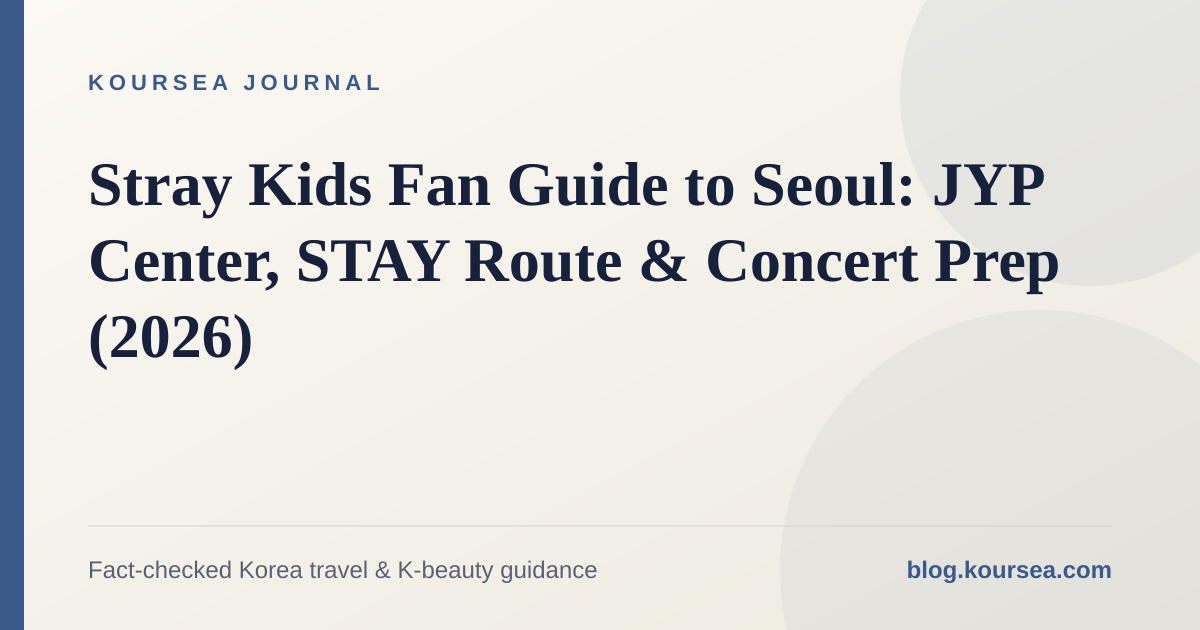
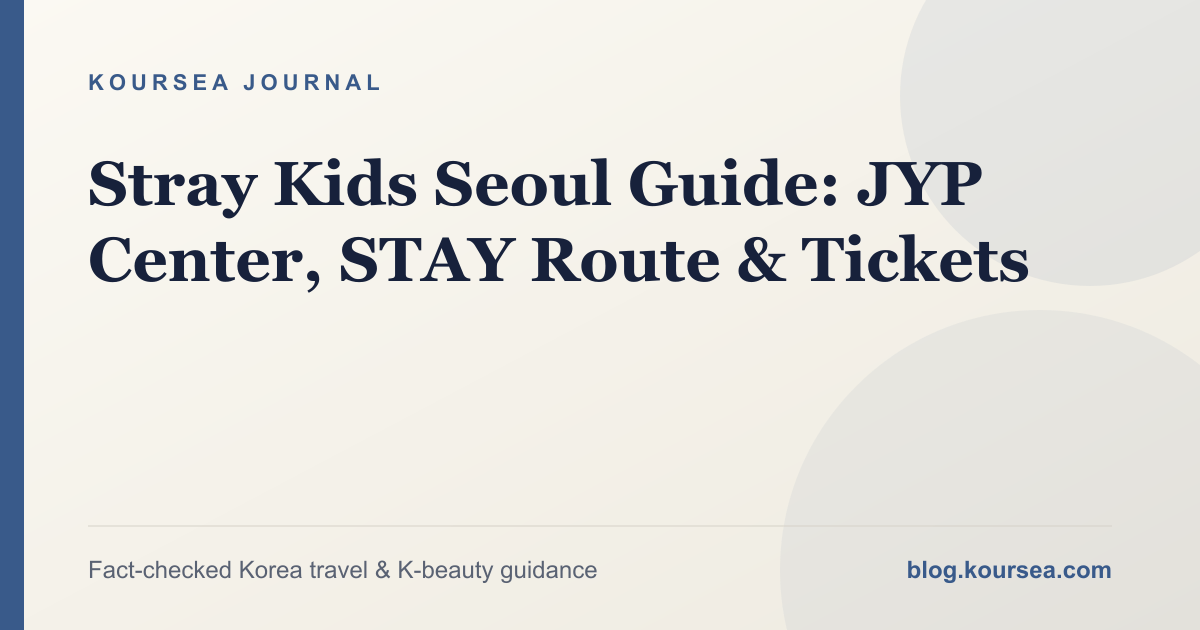
feat: route K-pop guides through fan travel hub

diff --git a/src/content/posts/kpop-concert-day-venue-transport-guide-2026.md b/src/content/posts/kpop-concert-day-venue-transport-guide-2026.md
@@ -1,8 +1,8 @@
 ---
-title: "K-Pop Concert Day Guide: KSPO, Gocheok, Inspire & Jamsil (2026)"
+title: "K-Pop Concert Day: KSPO, Gocheok, Inspire & Jamsil"
 description: "Plan transport, parking, identity checks and the post-show return from KSPO Dome, Gocheok Sky Dome, Inspire Arena and Jamsil Indoor Stadium."
 pubDate: 2026-09-05
-updatedDate: 2026-09-05
+updatedDate: 2026-09-25
 tags: ["K-pop concert Korea", "KSPO Dome transport", "Gocheok Sky Dome parking", "Inspire Arena shuttle", "Jamsil Indoor Stadium"]
 canonicalUrl: "https://blog.koursea.com/posts/kpop-concert-day-venue-transport-guide-2026/"
 author: "Koursea Editorial"
@@ -79,6 +79,25 @@ Korean ticketing and venue operations use strict purchaser-name checks to deter 
 Bag and camera policies also vary by promoter. Large bags, professional or detachable-lens cameras, long lenses, selfie sticks and recording equipment are commonly restricted, but this is not a permanent universal rule for every event at these venues. Check the current show's prohibited-items notice. Leave airport luggage at your hotel or a staffed storage point rather than testing an arena locker at the busiest time.
 
 Official lightsticks are generally the products supported by the artist's official Bluetooth synchronization system. An unofficial product may light up independently but fail to pair with the concert control system. Confirm the correct lightstick generation and pairing app through the artist or promoter's notice. For buying guidance, use Koursea's [guide to spotting fake K-pop merchandise](/posts/how-to-spot-fake-k-pop-merch-seoul-guide/) before purchasing from an unfamiliar seller.
+
+## Choose Where to Stay by the Return Trip
+
+Do not choose a hotel by measuring only the daytime trip to the venue. Open a live route planner for the expected end time, then check the **final transfer** needed to reach the hotel. A route that looks simple at 15:00 may depend on a connection that is much less forgiving after an encore.
+
+- **KSPO DOME:** compare hotels against both Lines 5 and 9, then keep the option that leaves the simplest final transfer after Olympic Park.
+- **Gocheok Sky Dome:** test the complete Line 1 return route from Guil Station. Pay attention to the direction and transfer station, not just the distance shown on a hotel listing.
+- **Inspire Arena:** let the confirmed return shuttle or pickup point determine the hotel area. A daytime airport shuttle is not proof that a post-show seat is available.
+- **Jamsil Indoor Stadium:** compare the Line 2 and Line 9 routes from Sports Complex Station and choose the one with fewer late-night dependencies.
+
+Save the result as a screenshot with the venue name and hotel address in Korean. Recheck it on the day because event operations and public-transport schedules can change.
+
+## If You Are Going Alone
+
+Solo concert travel works best when the essential decisions are made before the crowd forms. Share the venue, seat or section and expected return time with someone you trust. Keep the required ID, payment card, physical transit card and charged phone on your body rather than in a bag you may have to store.
+
+Choose a numbered gate or fixed public landmark as your meeting and pickup point, even if you do not expect to meet anyone. It gives you an unambiguous place to return to if mobile service slows or an app pickup fails. After the show, wait in a staffed, well-lit part of the venue or station complex rather than walking alone to a quiet road in search of a faster taxi.
+
+For the full set of venue guides, fan places and current Ask discussions, continue in Koursea's [K-pop fan travel hub](https://www.koursea.com/kpop.html).
 
 ## A Safer Concert-Day Timeline
 

diff --git a/src/content/posts/kspo-dome-concert-survival-guide.md b/src/content/posts/kspo-dome-concert-survival-guide.md
@@ -1,8 +1,8 @@
 ---
-title: "KSPO Dome Concert Survival Guide: Lockers, Food & Late-Night Subway Plan"
+title: "KSPO Dome Concert Guide: Lockers, Food & Late-Night Subway"
 description: "Plan a KSPO Dome concert with Olympic Park exits, realistic locker strategy, quick food options, meeting points and a safer late-night return route."
 pubDate: 2026-09-04
-updatedDate: 2026-09-04
+updatedDate: 2026-09-25
 tags: ["K-Pop", "KSPO Dome", "Concerts", "Olympic Park", "Seoul Transit"]
 canonicalUrl: "https://blog.koursea.com/posts/kspo-dome-concert-survival-guide/"
 author: "Koursea Editorial"
@@ -50,6 +50,23 @@ Check the last viable itinerary before entering the venue, including the final t
 Avoid sprinting into the first packed entrance if you have buffer. Walk steadily, follow crowd barriers and let your map recalculate from the station entrance you can actually reach. If the subway plan fails, move to a well-lit pickup area away from illegal stopping zones before requesting a taxi; surge demand and road closures can delay vehicles.
 
 Use the [2026 K-Pop concert ticketing survival guide](/posts/kpop-concert-ticketing-seoul-2026/) before purchase day, and Koursea's [transit survival guide](https://www.koursea.com/korea-transit-transport-master-pillar-guide.html) for fare-card and late-night routing basics.
+
+## A Lower-Stress Four-Hour Plan
+
+Keep the hours before the show inside Olympic Park instead of crossing Seoul for one more attraction. This reduces the risk that a delayed train, café queue or shopping stop consumes the time reserved for ticket pickup.
+
+- **T–4 hours:** arrive in the district, leave large luggage elsewhere and eat before the closest restaurants become crowded.
+- **T–3 hours:** walk the route from your station exit to the assigned gate while the complex is still easier to read.
+- **T–2 hours:** complete identity checks, ticket pickup or merchandise collection, following the order in the event notice.
+- **T–1 hour:** stop adding activities. Use the restroom, confirm the lightstick and move to the correct entry queue.
+
+Olympic Park is large enough for a quiet walk or seated break without adding another cross-city journey. Check the park operator's current access information and the promoter's temporary crowd-control map before relying on a particular path.
+
+## Going to KSPO Dome Alone
+
+Send a trusted contact your event name, seat or section and expected return time. Carry the original identification required by the organizer and keep a backup copy of your hotel address offline. Choose one numbered gate or permanent landmark as your fallback point before entering.
+
+After the show, stay with the staffed crowd route even if a map suggests a quieter shortcut. If you need a taxi, move only to a legal, well-lit pickup area and expect demand to be high. You can also open the [K-pop fan travel hub](https://www.koursea.com/kpop.html) before departure to keep the venue, ticket and Ask resources in one place.
 
 ## Concert-Day Timeline
 

diff --git a/src/content/posts/triples-fan-guide-seoul.md b/src/content/posts/triples-fan-guide-seoul.md
@@ -1,8 +1,8 @@
 ---
-title: "tripleS Fan Guide to Seoul: WAV Ticketing Prep for the ANDLESS World Tour"
+title: "tripleS Seoul Guide: WAV Ticketing & ANDLESS Tour"
 description: "A practical tripleS fan guide for Seoul: the MODHAUS agency structure, WAV fandom basics, and how to prepare for the ANDLESS World Tour's Jangchung Arena dates."
 pubDate: 2026-09-13
-updatedDate: 2026-09-13
+updatedDate: 2026-09-25
 category: "K-Pop & Concerts"
 tags: ["triples", "wav", "modhaus", "andless world tour", "kpop concert tickets"]
 canonicalUrl: "https://blog.koursea.com/posts/triples-fan-guide-seoul/"
@@ -16,7 +16,7 @@ faq:
     answer: "The guide lists October 10–11, 2026 at Jangchung Arena as the opening Seoul shows of the 2026 tripleS World Tour ANDLESS."
 ---
 
-# tripleS Fan Guide to Seoul: WAV Ticketing Prep for the ANDLESS World Tour
+# tripleS Seoul Guide: WAV Ticketing & ANDLESS Tour
 
 **MODHAUS** is the agency behind tripleS, a 24-member group, and **WAV** is the group's official fandom name. One difference from the SM Entertainment acts Koursea already covers: MODHAUS has no single, fixed public storefront to point fans toward, nothing like KWANGYA@SEOUL. So rather than force that shape, this guide sticks to what can actually be verified — how tripleS's promotion cycle works, plus how to get ready for a real, dated Seoul tour stop.
 

diff --git a/src/content/posts/nmixx-fan-guide.md b/src/content/posts/nmixx-fan-guide.md
@@ -1,8 +1,8 @@
 ---
-title: "NMIXX Fan Guide to Seoul: JYP Center, NSWER Basics & Comeback Prep (2026)"
+title: "NMIXX Seoul Guide: JYP Center, NSWER & Comeback Prep"
 description: "A practical NMIXX fan guide covering the NSWER fandom name, current JYP Center visit rules, the Heavy Serenade era, and Seoul concert/ticketing prep."
 pubDate: 2026-09-20
-updatedDate: 2026-09-20
+updatedDate: 2026-09-25
 category: "K-Pop & Concerts"
 tags: ["nmixx", "nswer", "jyp entertainment", "heavy serenade", "kpop concert tickets"]
 canonicalUrl: "https://blog.koursea.com/posts/nmixx-fan-guide/"
@@ -16,7 +16,7 @@ faq:
     answer: "As of this guide's last check, the most recent confirmed release is the fifth mini album Heavy Serenade, released May 11, 2026. Check NMIXX's official channels for anything newer."
 ---
 
-# NMIXX Fan Guide to Seoul: JYP Center, NSWER Basics & Comeback Prep
+# NMIXX Seoul Guide: JYP Center, NSWER & Comeback Prep
 
 NMIXX debuted on February 22, 2022 under JYP Entertainment with the single "O.O." The group is currently six members — Lily, Haewon, Sullyoon, Bae, Jiwoo and Kyujin — after Jinni departed the lineup on December 9, 2022. Their official fandom name is **NSWER**. This guide keeps travel planning tied to JYP's official channels rather than rumored schedules or unofficial visitor locations.
 

diff --git a/src/content/posts/twice-fan-guide-jyp-cheongdam.md b/src/content/posts/twice-fan-guide-jyp-cheongdam.md
@@ -1,8 +1,8 @@
 ---
-title: "TWICE Fan Guide to Seoul: JYP Center, ONCE Stops & Cheongdam Beauty Route (2026)"
+title: "TWICE Fan Guide: JYP Center, ONCE Stops & Seoul Route"
 description: "A practical TWICE fan guide to JYP Center in Seongnae-dong, respectful exterior photos, Seoul route planning, Cheongdam beauty stops and ticket prep."
 pubDate: 2026-09-02
-updatedDate: 2026-09-10
+updatedDate: 2026-09-25
 tags:
   - twice
   - once
@@ -21,7 +21,7 @@ faq:
     answer: "Cheongdam is a separate optional K-beauty and fashion district, not an extension of the JYP headquarters stop or a claim about celebrity salon use."
 ---
 
-# TWICE Fan Guide to Seoul: JYP Center, ONCE Stops & Cheongdam Beauty Route
+# TWICE Fan Guide: JYP Center, ONCE Stops & Seoul Route
 
 TWICE debuted on October 20, 2015 with *The Story Begins* under JYP Entertainment. The nine members are Nayeon, Jeongyeon, Momo, Sana, Jihyo, Mina, Dahyun, Chaeyoung and Tzuyu, and their official fandom is **ONCE**. A Seoul fan trip can include the [JYP Center exterior](https://www.koursea.com/place/jyp-entertainment-center-gangdong/), but the current headquarters is in **Seongnae-dong, Gangdong-gu—not Cheongdam**. Cheongdam works better as a separate K-beauty and fashion extension to the day.
 

diff --git a/src/content/posts/myeongdong-kpop-merch-immediate-tax-refund.md b/src/content/posts/myeongdong-kpop-merch-immediate-tax-refund.md
@@ -1,8 +1,8 @@
 ---
-title: "Immediate Tax Refund on K-Pop Merch in Myeongdong: What the Rules Actually Say"
+title: "K-Pop Merch Tax Refund in Myeongdong: Current Rules"
 description: "The real transaction limits for instant VAT refunds when shopping for K-pop merch and other retail goods as a foreign tourist in Korea."
 pubDate: 2026-09-06
-updatedDate: 2026-09-06
+updatedDate: 2026-09-25
 tags: ["tax refund korea", "myeongdong shopping", "kpop merch", "koursea"]
 canonicalUrl: "https://blog.koursea.com/posts/myeongdong-kpop-merch-immediate-tax-refund/"
 author: "Koursea Editorial"
@@ -15,7 +15,7 @@ faq:
     answer: "Yes, some form of passport verification is part of the refund process at the register — check with the specific store on whether they need to see it, scan it, or take other identifying information, since procedures vary by retailer."
 ---
 
-# Immediate Tax Refund on K-Pop Merch in Myeongdong: What the Rules Actually Say
+# K-Pop Merch Tax Refund in Myeongdong: Current Rules
 
 If you're buying albums, photocards, or other merch in Myeongdong, several stores offer an immediate VAT deduction right at the register instead of making you claim it back at the airport. Here's what the actual rule covers — and what it doesn't.
 

diff --git a/src/content/posts/txt-fan-guide-seoul-moa.md b/src/content/posts/txt-fan-guide-seoul-moa.md
@@ -1,8 +1,8 @@
 ---
-title: "TOMORROW X TOGETHER Fan Guide to Seoul: MOA Concert & Official Merch Planning"
+title: "TXT Fan Guide to Seoul: MOA Concerts & Official Merch"
 description: "Plan a respectful TXT fan trip in Seoul with official MOA sources, KSPO DOME concert preparation, Weverse merchandise checks, and practical transit steps."
 pubDate: 2026-09-09
-updatedDate: 2026-09-09
+updatedDate: 2026-09-25
 tags: ["K-Pop", "TOMORROW X TOGETHER", "TXT", "MOA", "Concert Tickets"]
 canonicalUrl: "https://blog.koursea.com/posts/txt-fan-guide-seoul-moa/"
 author: "Koursea Editorial"
@@ -15,7 +15,7 @@ faq:
     answer: "Compare the purchaser name with the passport, save the venue and last-train route, and use the official ticket seller and current entry rules."
 ---
 
-# TOMORROW X TOGETHER Fan Guide to Seoul: MOA Concert & Official Merch Planning
+# TXT Fan Guide to Seoul: MOA Concerts & Official Merch
 
 TOMORROW X TOGETHER is a five-member BIGHIT MUSIC group made up of Soobin, Yeonjun, Beomgyu, Taehyun, and Hueningkai, according to the group's [official profile](https://txt.ibighit.com/eng/profile/). Its official fan club is MOA, as confirmed by the [official MOA Membership notice](https://weverse.io/txt/notice/880).
 

diff --git a/src/content/posts/le-sserafim-fan-guide-seoul-fearnot.md b/src/content/posts/le-sserafim-fan-guide-seoul-fearnot.md
@@ -1,8 +1,8 @@
 ---
-title: "LE SSERAFIM Fan Guide to Seoul: FEARNOT Events, Pop-Ups & Concert Planning"
+title: "LE SSERAFIM Seoul Guide: Events, Pop-Ups & Concerts"
 description: "Plan a respectful LE SSERAFIM fan trip with official FEARNOT sources, temporary Seoul pop-up checks, concert ticket preparation, and event etiquette."
 pubDate: 2026-09-09
-updatedDate: 2026-09-09
+updatedDate: 2026-09-25
 tags: ["K-Pop", "LE SSERAFIM", "FEARNOT", "Seoul", "Concert Tickets"]
 canonicalUrl: "https://blog.koursea.com/posts/le-sserafim-fan-guide-seoul-fearnot/"
 author: "Koursea Editorial"
@@ -15,7 +15,7 @@ faq:
     answer: "Check the date, hours, entry floor, reservation or QR requirements, ID rules, quantity limits, and whether the event has already sold out."
 ---
 
-# LE SSERAFIM Fan Guide to Seoul: FEARNOT Events, Pop-Ups & Concert Planning
+# LE SSERAFIM Seoul Guide: Events, Pop-Ups & Concerts
 
 LE SSERAFIM is a five-member SOURCE MUSIC group comprising Sakura, Kim Chaewon, Huh Yunjin, Kazuha, and Hong Eunchae, as listed by the group's [official profile](https://www.le-sserafim.jp/profile). The official fandom name is FEARNOT, confirmed in the [fandom-name announcement](https://weverse.io/lesserafim/notice/3267).
 

diff --git a/src/content/posts/stray-kids-fan-guide-jyp-cheongdam.md b/src/content/posts/stray-kids-fan-guide-jyp-cheongdam.md
@@ -1,8 +1,8 @@
 ---
-title: "Stray Kids Fan Guide to Seoul: JYP Center, STAY Route & Concert Prep (2026)"
+title: "Stray Kids Seoul Guide: JYP Center, STAY Route & Tickets"
 description: "Plan a respectful Stray Kids fan trip to JYP Center in Seongnae-dong with subway directions, photo rules, Olympic Park routing and ticketing advice."
 pubDate: 2026-09-02
-updatedDate: 2026-09-11
+updatedDate: 2026-09-25
 category: "K-Pop & Concerts"
 tags:
   - stray-kids
@@ -22,7 +22,7 @@ faq:
     answer: "The guide suggests combining it with Olympic Park and an officially announced KSPO DOME event when relevant."
 ---
 
-# Stray Kids Fan Guide to Seoul: JYP Center, STAY Route & Concert Prep
+# Stray Kids Seoul Guide: JYP Center, STAY Route & Tickets
 
 Stray Kids officially debuted in March 2018 under JYP Entertainment. The group consists of Bang Chan, Lee Know, Changbin, Hyunjin, HAN, Felix, Seungmin and I.N, and the official fandom is **STAY**. For a Seoul trip, the practical agency stop is the current [JYP Center in Seongnae-dong](https://www.koursea.com/place/jyp-entertainment-center-gangdong/), Gangdong-gu. Despite old search results and the requested legacy filename, the headquarters is not in Cheongdam.
 

diff --git a/src/content/posts/hybe-yongsan-1-day-tour-guide.md b/src/content/posts/hybe-yongsan-1-day-tour-guide.md
@@ -1,8 +1,8 @@
 ---
-title: "HYBE Yongsan 1-Day Fan Tour: Headquarters, Cafes & Respectful Photo Stops"
+title: "HYBE Yongsan Fan Tour: Cafes & Respectful Photo Stops"
 description: "Plan a respectful HYBE Yongsan fan day with verified headquarters navigation, public photo rules, nearby cafes, museum options and concert prep."
 pubDate: 2026-09-04
-updatedDate: 2026-09-04
+updatedDate: 2026-09-25
 tags: ["K-Pop", "HYBE", "Yongsan", "Seoul Itinerary", "Concert Travel"]
 canonicalUrl: "https://blog.koursea.com/posts/hybe-yongsan-1-day-tour-guide/"
 author: "Koursea Editorial"
@@ -15,7 +15,7 @@ faq:
     answer: "Save the headquarters address in Korean, verify the museum or indoor backup, test concert accounts and payment, and store the hotel and train route offline."
 ---
 
-# HYBE Yongsan 1-Day Fan Tour: Headquarters, Cafes & Respectful Photo Stops
+# HYBE Yongsan Fan Tour: Cafes & Respectful Photo Stops
 
 HYBE's Yongsan headquarters is a working office, not a walk-in attraction. The right fan itinerary treats it as a short exterior landmark, then uses Yongsan's excellent rail connections for public cultural stops, cafés and the Han River.
 

diff --git a/src/content/posts/bts-fan-guide-hybe-yongsan.md b/src/content/posts/bts-fan-guide-hybe-yongsan.md
@@ -1,8 +1,8 @@
 ---
-title: "BTS Fan Guide to Seoul: HYBE Yongsan, ARMY Photo Stops & Concert Prep (2026)"
+title: "BTS Fan Guide: HYBE Yongsan, ARMY Stops & Concert Prep"
 description: "Plan a respectful BTS fan trip to HYBE Yongsan with subway directions, exterior photo rules, nearby stops, ticketing, eSIM and payment advice."
 pubDate: 2026-09-02
-updatedDate: 2026-09-11
+updatedDate: 2026-09-25
 category: "K-Pop & Concerts"
 tags:
   - bts
@@ -22,7 +22,7 @@ faq:
     answer: "No. The guide states that HYBE INSIGHT permanently closed on January 15, 2023 and has no announced reopening at the headquarters."
 ---
 
-# BTS Fan Guide to Seoul: HYBE Yongsan, ARMY Photo Stops & Concert Prep
+# BTS Fan Guide: HYBE Yongsan, ARMY Stops & Concert Prep
 
 BTS debuted in June 2013 under BIGHIT MUSIC. The seven-member group—RM, Jin, SUGA, j-hope, Jimin, V and Jung Kook—calls its official fandom **ARMY**. For visitors, the most practical BTS-related stop in Seoul is [HYBE's headquarters in Yongsan](https://www.koursea.com/place/hybe-headquarters-yongsan/), but it should be treated as a working office rather than a public attraction.
 

diff --git a/src/content/posts/kdrama-kpop-filming-locations-seoul-2026.md b/src/content/posts/kdrama-kpop-filming-locations-seoul-2026.md
@@ -1,8 +1,8 @@
 ---
-title: "10 Real K-Drama & K-Pop Filming Locations Near Seoul You Can Actually Visit (2026)"
+title: "10 K-Drama & K-Pop Filming Locations Near Seoul (2026)"
 description: "10 verified K-drama and K-pop filming locations around Seoul, Gyeonggi, and Incheon — from BTS's Gyeongbokgung stage to Vincenzo's Sewoon Plaza — all still open to visit, each sourced to a news or city-government article."
 pubDate: 2026-09-07
-updatedDate: 2026-09-07
+updatedDate: 2026-09-25
 category: "K-Pop & Concerts"
 tags: ["K-drama filming locations Seoul", "K-pop filming locations", "BTS Gyeongbokgung", "Queen of Tears locations", "Vincenzo filming locations", "Koursea"]
 canonicalUrl: "https://blog.koursea.com/posts/kdrama-kpop-filming-locations-seoul-2026/"
